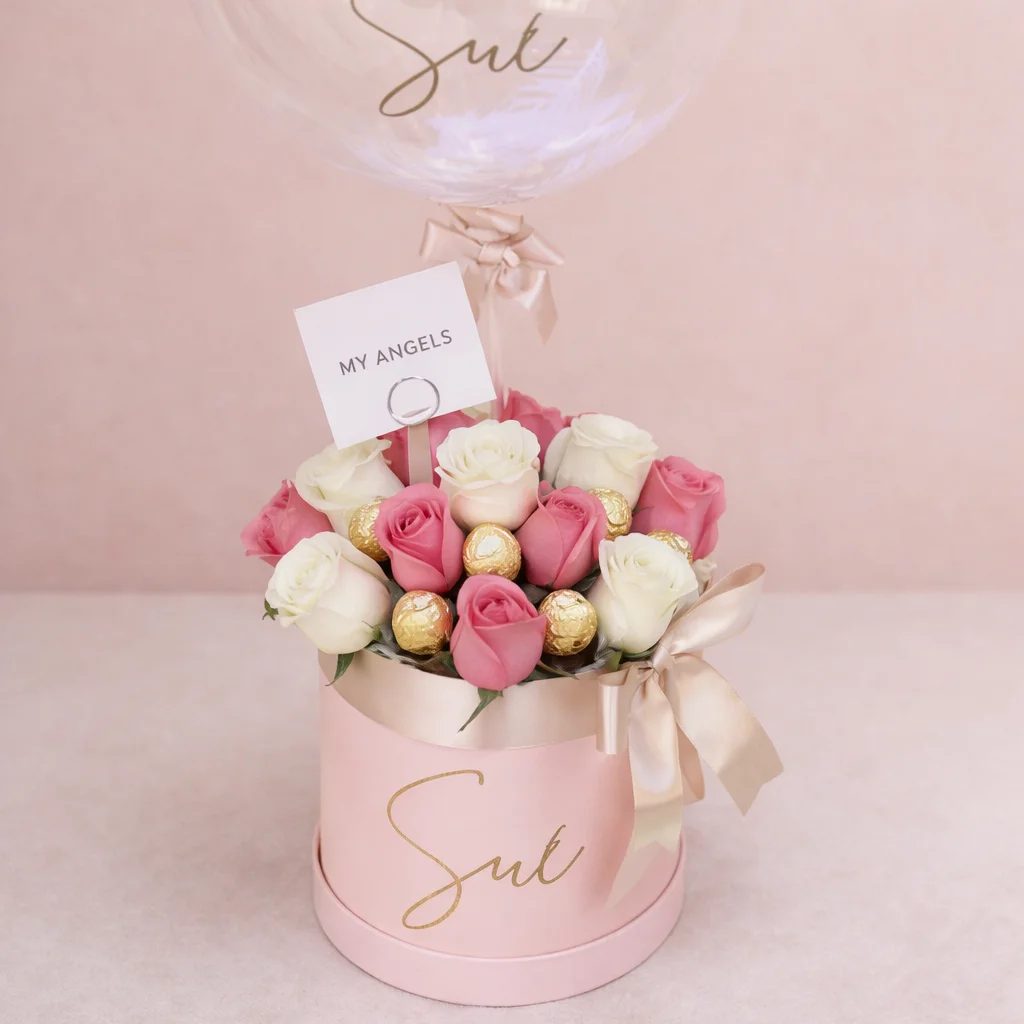
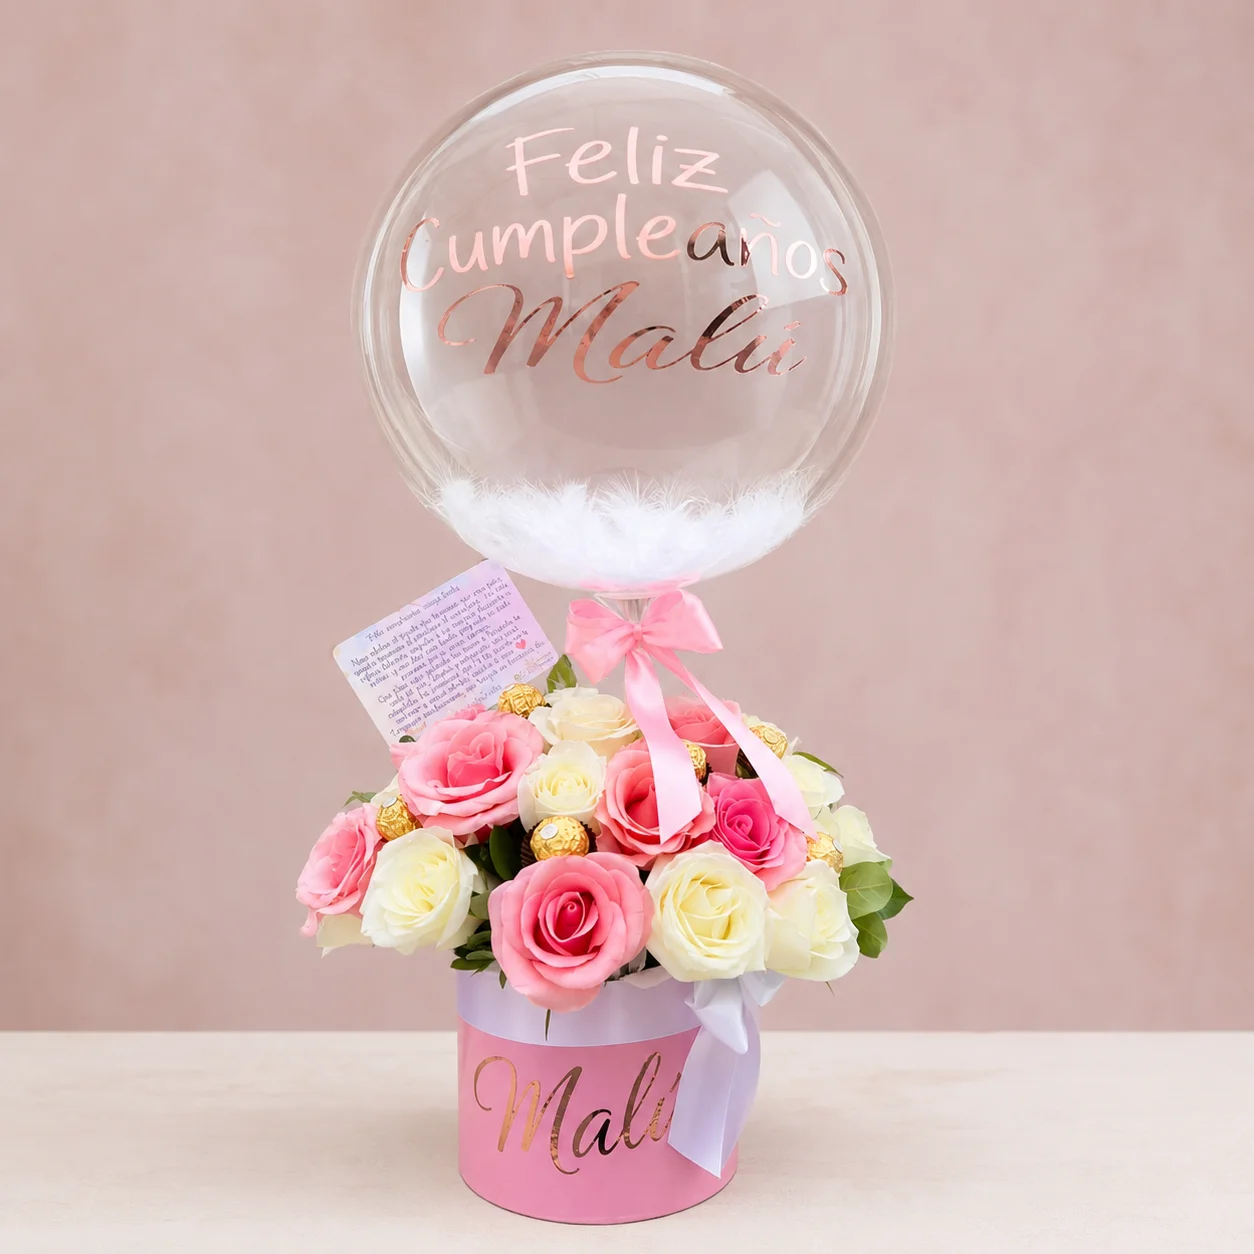
.

diff --git a/catalogo.html b/catalogo.html
@@ -2172,6 +2172,22 @@ const products = [
                 description: "Frondoso ramo de rosas rojas y rosadas con eucalipto y follaje verde, envuelto en papel rosa con encaje blanco y gran lazo. Incluye caja de 4 chocolates Ferrero Rocher, birrete de graduación negro con borla amarilla y tarjeta personalizada. El regalo perfecto para celebrar ese logro tan esperado con elegancia y dulzura.",
                 categories: ["rosas", "bouquets", "chocolates", "graduacion", "precio-medio"]
             },
+            {
+                id: 252,
+                name: "Ramo Gigante Primaveral Rosa y Lila",
+                price: 750000,
+                image: "assets/foto239.webp",
+                description: "Imponente ramo XL en tonos rosa, fucsia y lila con rosas, mini rosas, gerberas, tulipanes, claveles, escabiosas moradas, ranúnculos y bayas de hypericum, envuelto en papel rosa en forma de estrella e incluye tarjeta personalizada. Nuestro arreglo más frondoso y espectacular, ideal para aniversarios, cumpleaños y esos momentos en los que quieres sorprender en grande.",
+                categories: ["rosas", "gerberas", "tulipanes", "bouquets", "premium", "precio-alto"]
+            },
+            {
+                id: 253,
+                name: "Base Blanca Lirios y Claveles Rosados",
+                price: 350000,
+                image: "assets/foto240.webp",
+                description: "Elegante base de cerámica blanca acanalada con lirios rosados abiertos, claveles rosados y blancos, rosas, mini rosas, gypsophila y follaje verde, con tarjeta personalizada. Un arreglo delicado, aromático y listo para lucir en cualquier espacio: perfecto para cumpleaños, agradecimientos y detalles corporativos.",
+                categories: ["lirios", "rosas", "cajas", "premium", "precio-alto"]
+            },
         ];
 
         // Generar código de producto a partir del id

diff --git a/js/landing.js b/js/landing.js
@@ -1973,6 +1973,22 @@ const products = [
                 description: "Frondoso ramo de rosas rojas y rosadas con eucalipto y follaje verde, envuelto en papel rosa con encaje blanco y gran lazo. Incluye caja de 4 chocolates Ferrero Rocher, birrete de graduación negro con borla amarilla y tarjeta personalizada. El regalo perfecto para celebrar ese logro tan esperado con elegancia y dulzura.",
                 categories: ["rosas", "bouquets", "chocolates", "graduacion", "precio-medio"]
             },
+            {
+                id: 252,
+                name: "Ramo Gigante Primaveral Rosa y Lila",
+                price: 750000,
+                image: "../assets/foto239.webp",
+                description: "Imponente ramo XL en tonos rosa, fucsia y lila con rosas, mini rosas, gerberas, tulipanes, claveles, escabiosas moradas, ranúnculos y bayas de hypericum, envuelto en papel rosa en forma de estrella e incluye tarjeta personalizada. Nuestro arreglo más frondoso y espectacular, ideal para aniversarios, cumpleaños y esos momentos en los que quieres sorprender en grande.",
+                categories: ["rosas", "gerberas", "tulipanes", "bouquets", "premium", "precio-alto"]
+            },
+            {
+                id: 253,
+                name: "Base Blanca Lirios y Claveles Rosados",
+                price: 350000,
+                image: "../assets/foto240.webp",
+                description: "Elegante base de cerámica blanca acanalada con lirios rosados abiertos, claveles rosados y blancos, rosas, mini rosas, gypsophila y follaje verde, con tarjeta personalizada. Un arreglo delicado, aromático y listo para lucir en cualquier espacio: perfecto para cumpleaños, agradecimientos y detalles corporativos.",
+                categories: ["lirios", "rosas", "cajas", "premium", "precio-alto"]
+            },
         ];
 
 // --- VARIABLES GLOBALES ---
